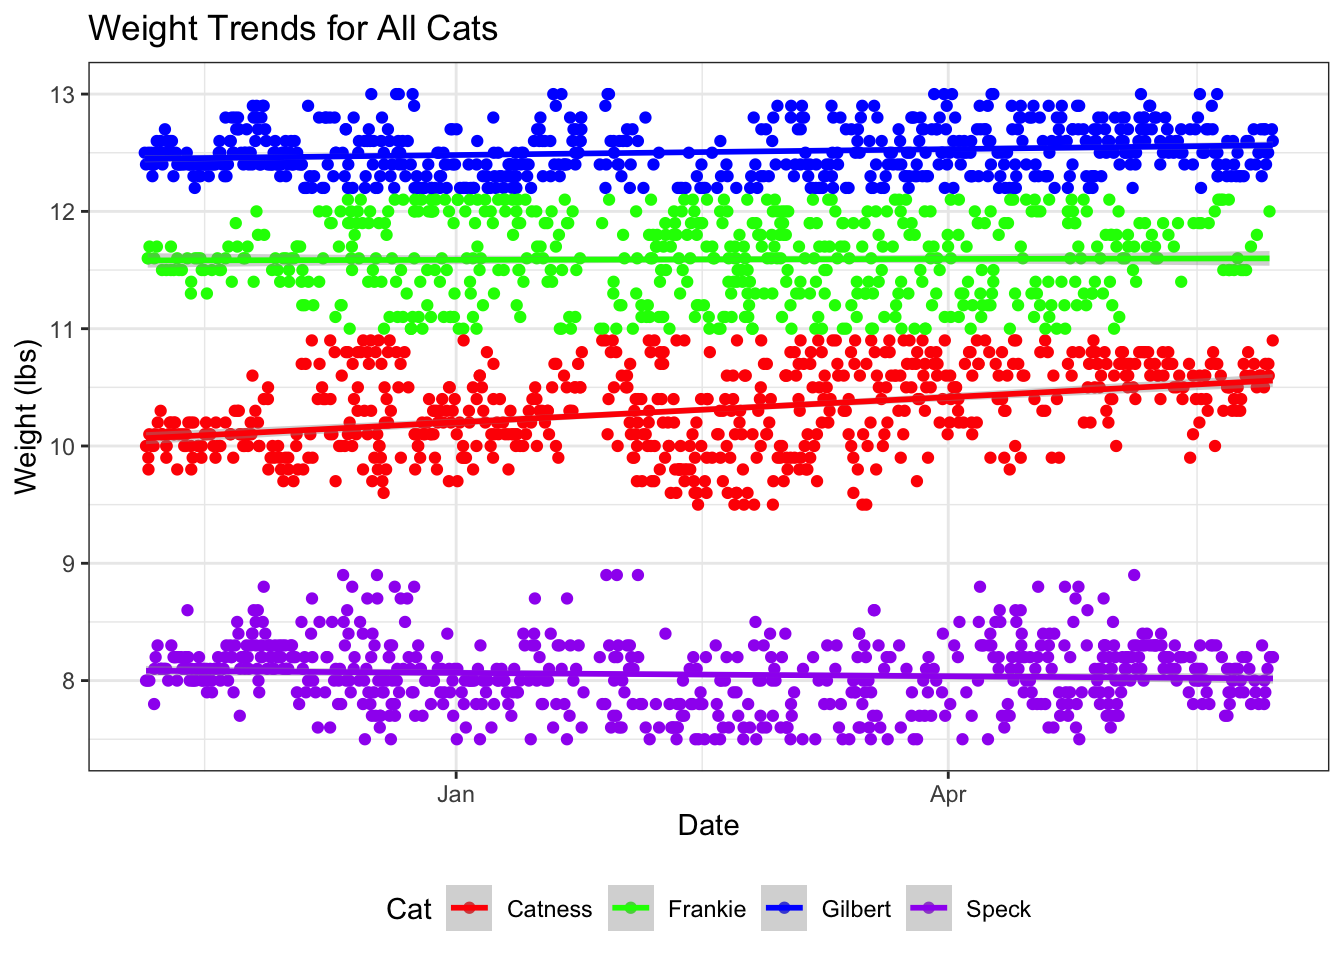
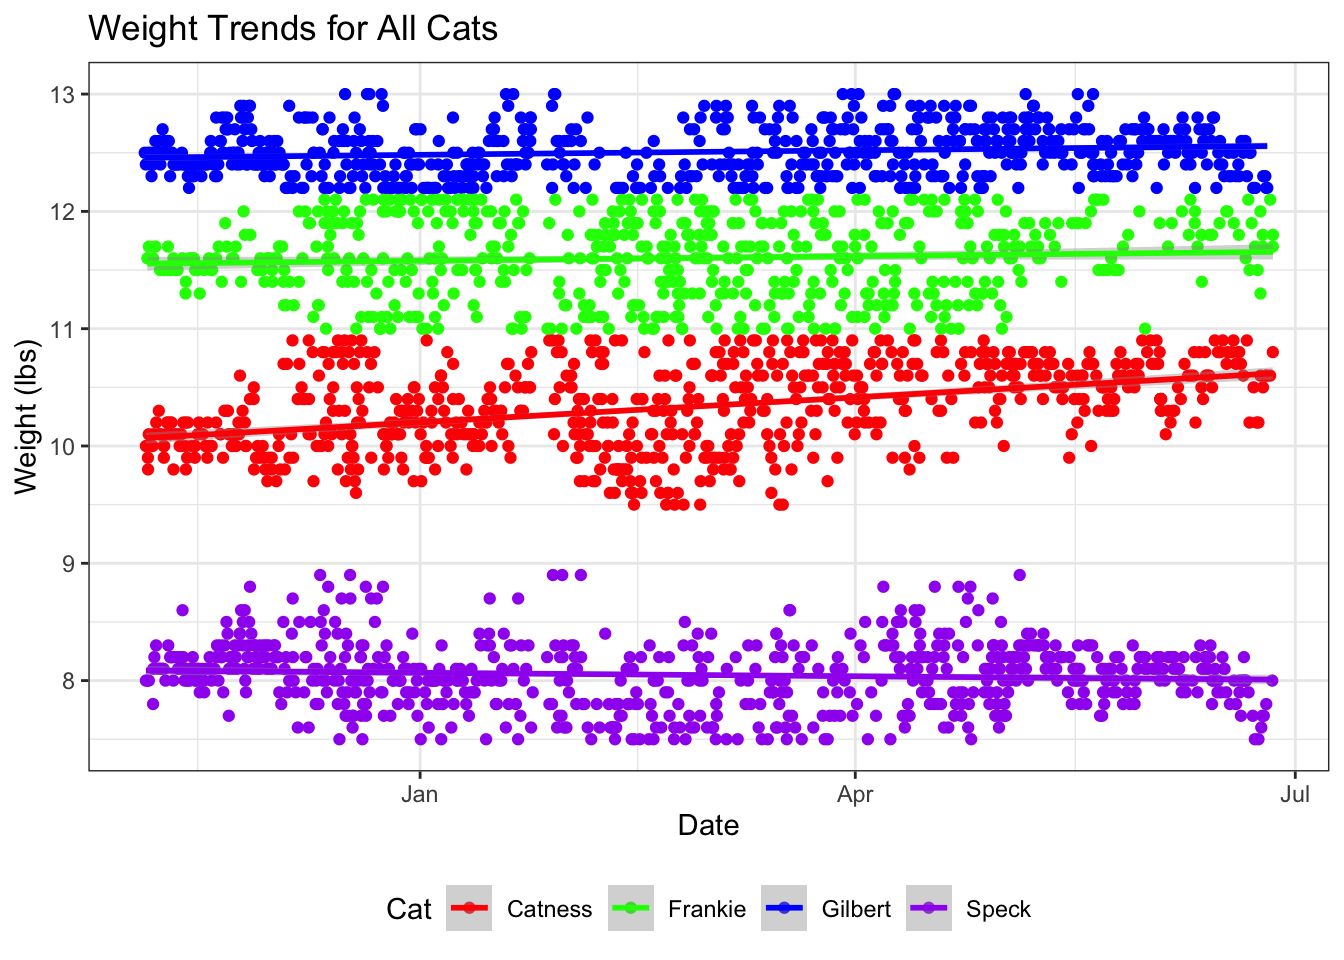
June 26 update

diff --git a/index.html b/index.html
@@ -228,8 +228,8 @@ Figure&nbsp;1
 <td style="text-align: right;">10.3</td>
 <td style="text-align: right;">10.3</td>
 <td style="text-align: right;">0.36</td>
-<td style="text-align: right;">-0.08</td>
-<td style="text-align: right;">2.03</td>
+<td style="text-align: right;">-0.16</td>
+<td style="text-align: right;">2.05</td>
 </tr>
 <tr class="even">
 <td style="text-align: left;">Frankie</td>
@@ -238,8 +238,8 @@ Figure&nbsp;1
 <td style="text-align: right;">11.6</td>
 <td style="text-align: right;">11.6</td>
 <td style="text-align: right;">0.34</td>
-<td style="text-align: right;">-0.16</td>
-<td style="text-align: right;">1.90</td>
+<td style="text-align: right;">-0.22</td>
+<td style="text-align: right;">1.93</td>
 </tr>
 <tr class="odd">
 <td style="text-align: left;">Gilbert</td>
@@ -248,18 +248,18 @@ Figure&nbsp;1
 <td style="text-align: right;">12.5</td>
 <td style="text-align: right;">12.5</td>
 <td style="text-align: right;">0.21</td>
-<td style="text-align: right;">0.40</td>
-<td style="text-align: right;">2.32</td>
+<td style="text-align: right;">0.35</td>
+<td style="text-align: right;">2.33</td>
 </tr>
 <tr class="even">
 <td style="text-align: left;">Speck</td>
 <td style="text-align: right;">7.5</td>
 <td style="text-align: right;">8.9</td>
+<td style="text-align: right;">8.0</td>
 <td style="text-align: right;">8.1</td>
-<td style="text-align: right;">8.1</td>
-<td style="text-align: right;">0.29</td>
+<td style="text-align: right;">0.28</td>
 <td style="text-align: right;">0.25</td>
-<td style="text-align: right;">3.10</td>
+<td style="text-align: right;">3.26</td>
 </tr>
 </tbody>
 </table>
@@ -280,23 +280,23 @@ Figure&nbsp;1
 <tbody>
 <tr class="odd">
 <td style="text-align: left;">Catness</td>
-<td style="text-align: right;">652</td>
-<td style="text-align: right;">22.5</td>
+<td style="text-align: right;">713</td>
+<td style="text-align: right;">21.6</td>
 </tr>
 <tr class="even">
 <td style="text-align: left;">Frankie</td>
-<td style="text-align: right;">554</td>
-<td style="text-align: right;">19.1</td>
+<td style="text-align: right;">586</td>
+<td style="text-align: right;">17.8</td>
 </tr>
 <tr class="odd">
 <td style="text-align: left;">Gilbert</td>
-<td style="text-align: right;">633</td>
-<td style="text-align: right;">21.8</td>
+<td style="text-align: right;">704</td>
+<td style="text-align: right;">21.3</td>
 </tr>
 <tr class="even">
 <td style="text-align: left;">Speck</td>
-<td style="text-align: right;">656</td>
-<td style="text-align: right;">22.6</td>
+<td style="text-align: right;">728</td>
+<td style="text-align: right;">22.1</td>
 </tr>
 </tbody>
 </table>

diff --git a/cleaner.py b/cleaner.py
@@ -13,7 +13,8 @@ class CatDataCleaner:
                 "litter_robot_7.csv",
                 "litter_robot_8.csv",
                 "litter_robot_9.csv",
-                "litter_robot_10.csv"
+                "litter_robot_10.csv",
+                "litter_robot_11.csv"
             ]
         else:
             self.input_files = input_files
